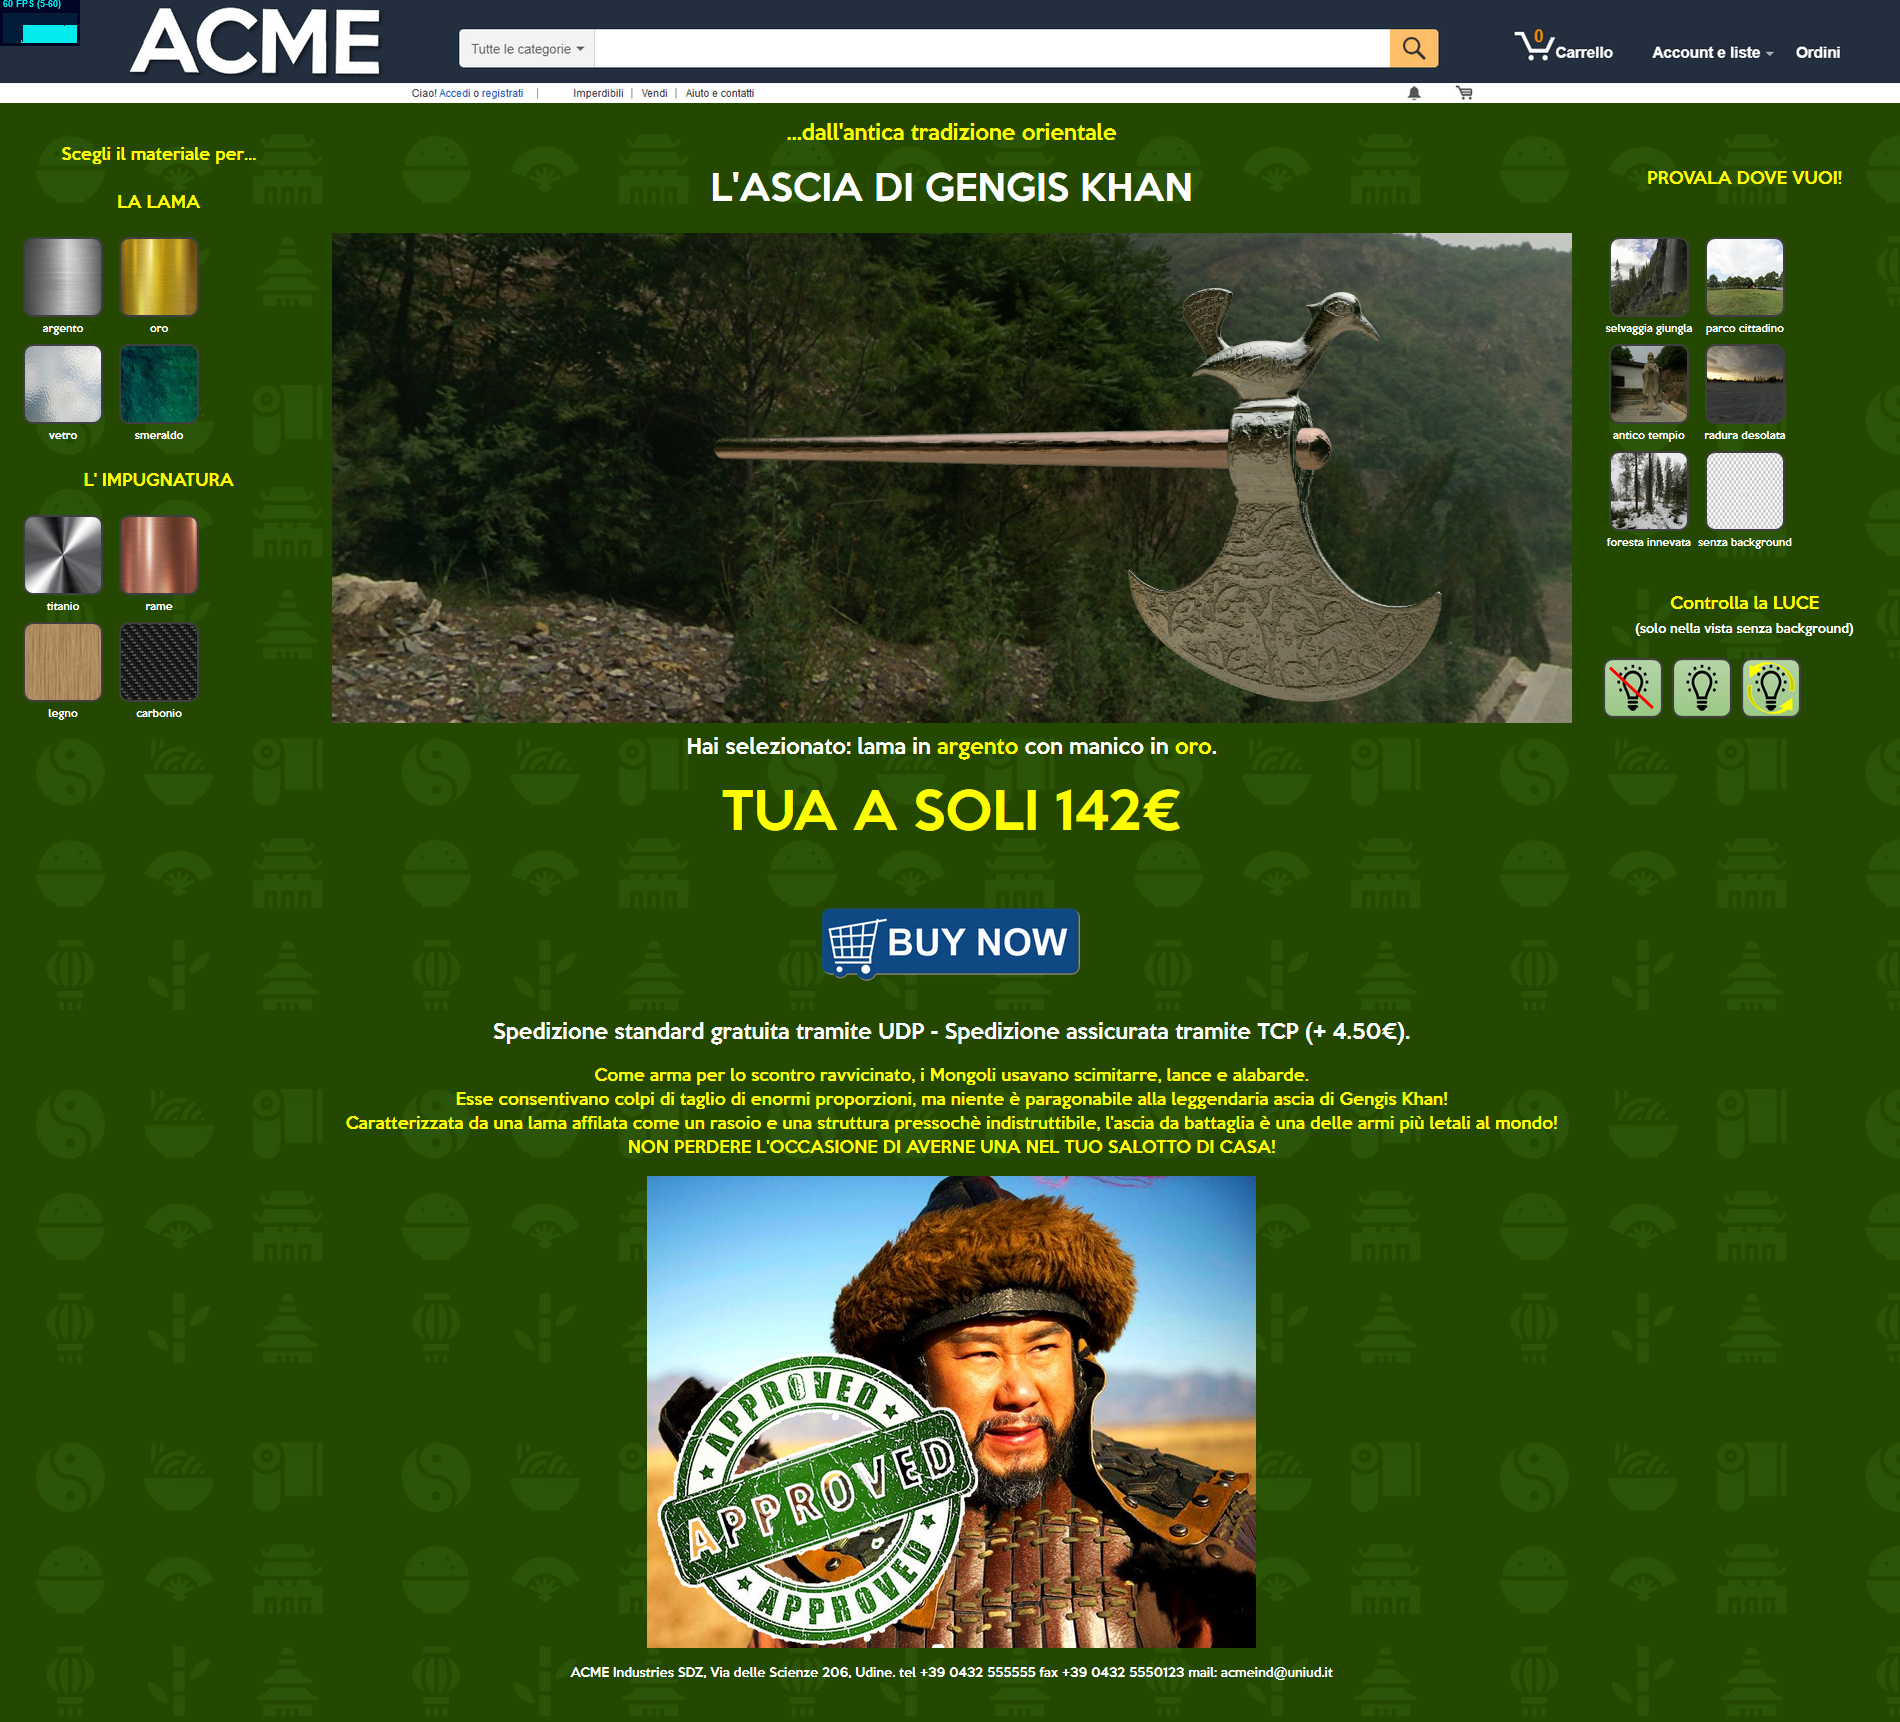
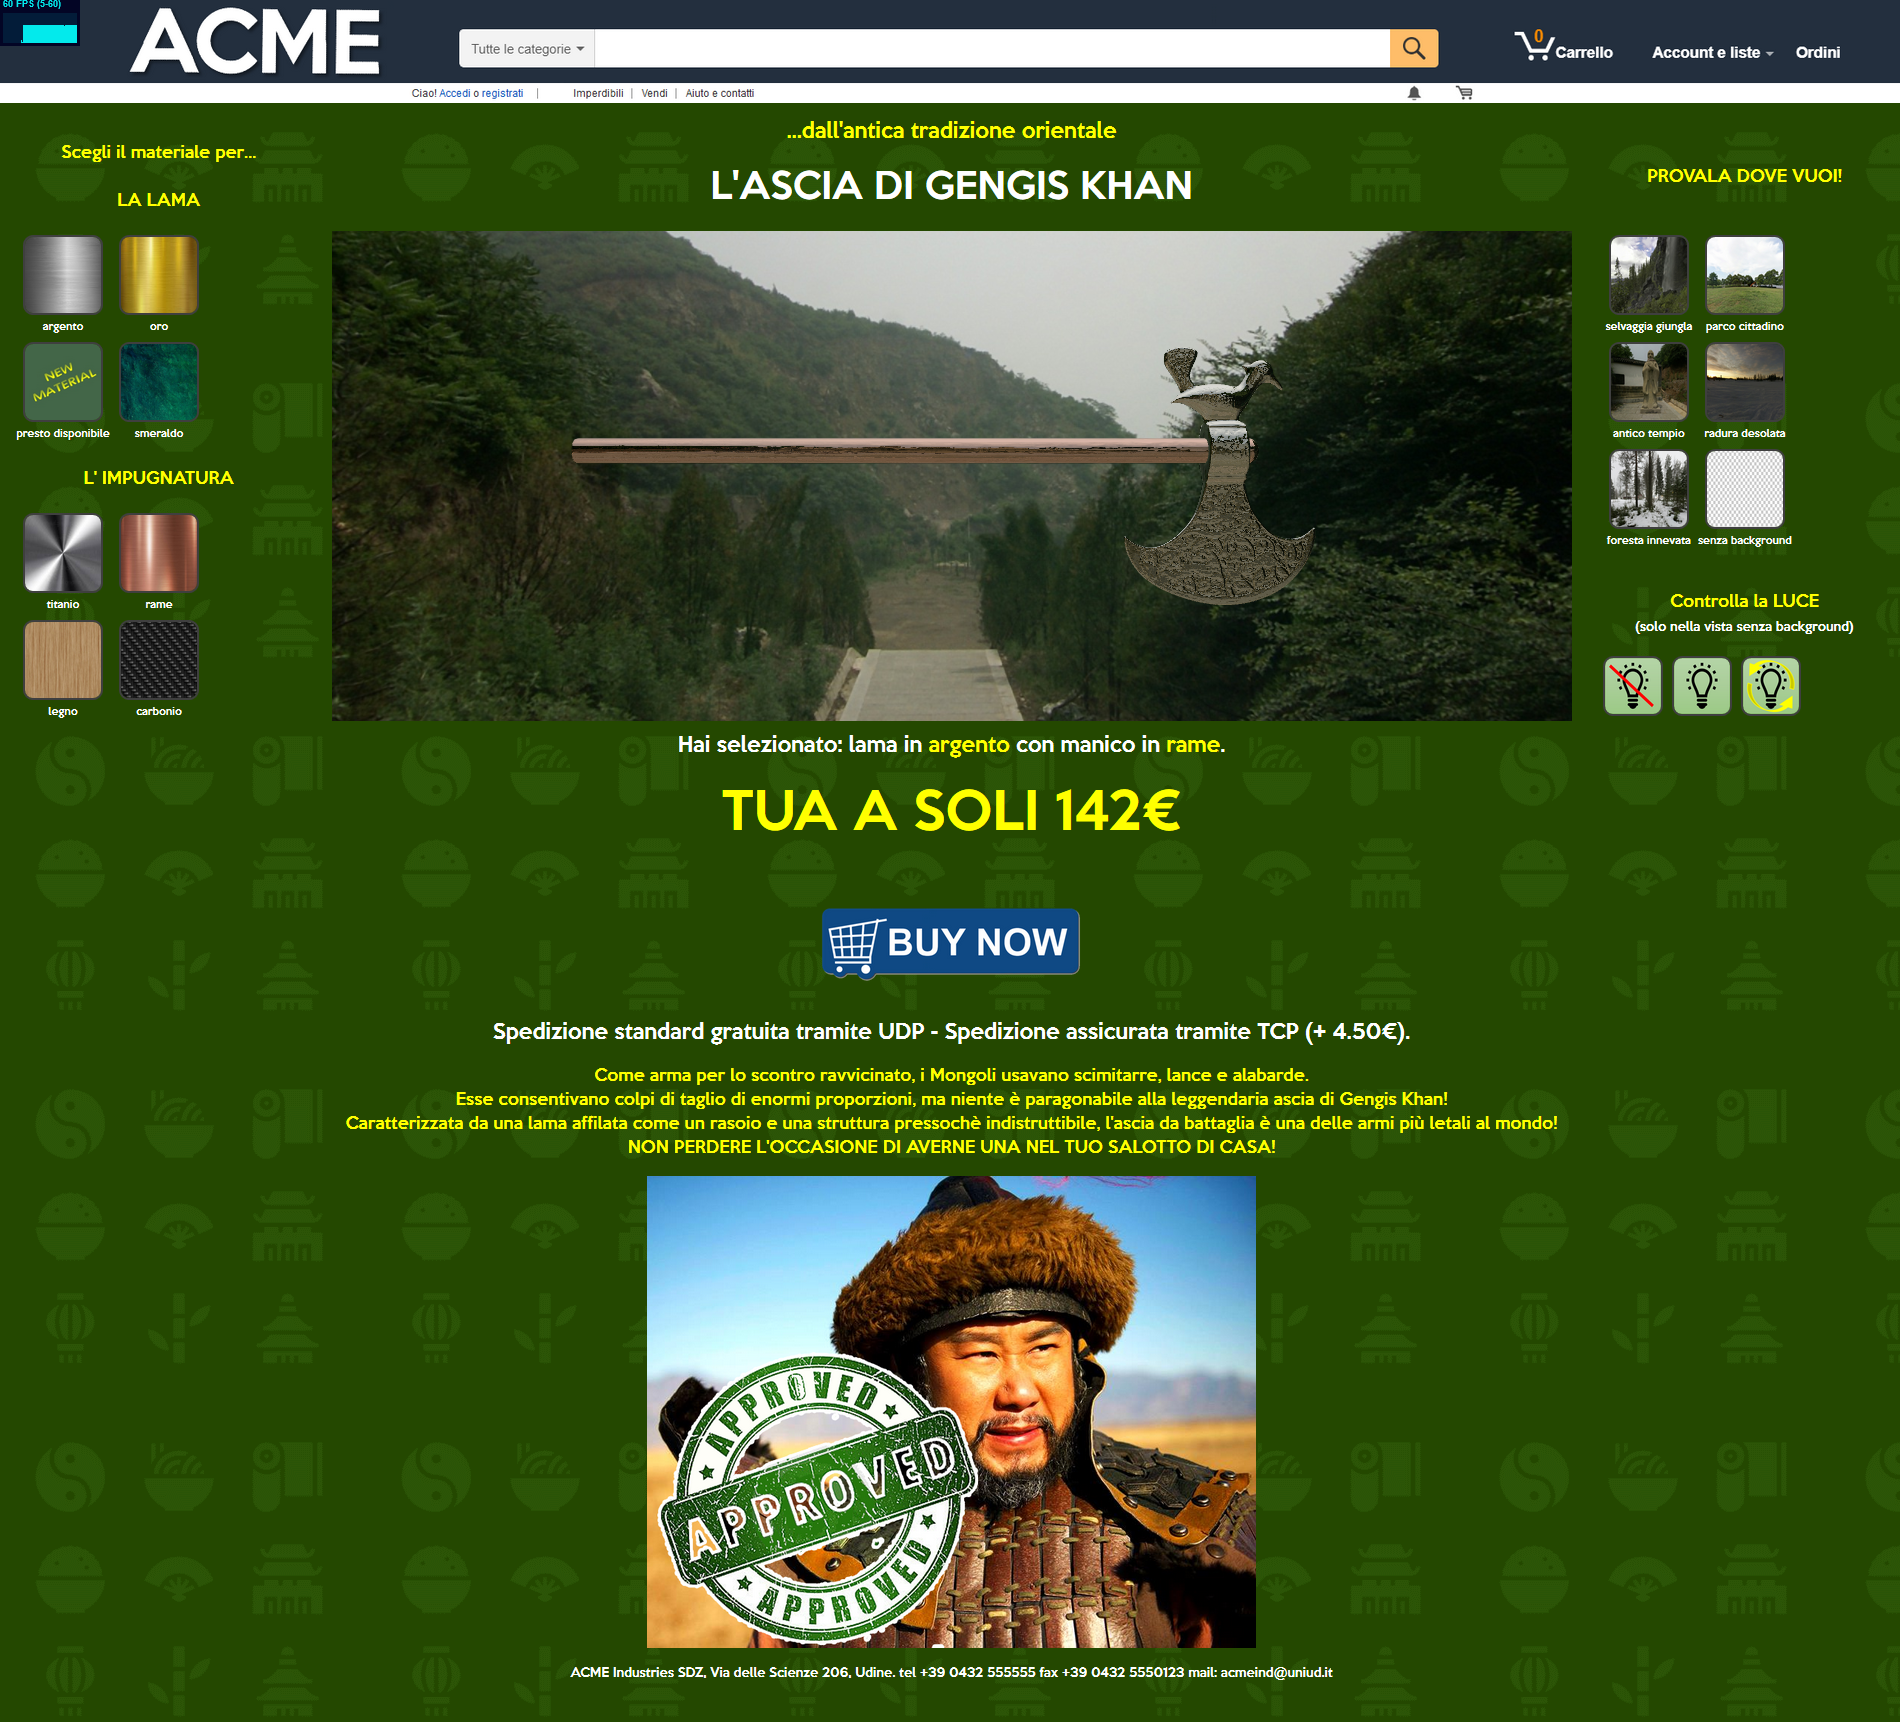
aggiornamenti journal e readme

diff --git a/README.md b/README.md
@@ -13,9 +13,9 @@ Team:
 Il progetto consiste in una applicazione web caratterizzata da un sito di e-commerce che permette l'acquisto di un'ascia da battaglia mongola (L'ascia di gengis khan). In particolare abbiamo sviluppato la possibilità di visualizzare il prodotto anche dopo aver modificato i suoi materiali, cosi da consentire al cliente una maggiore personalizzazione. Sarà quindi possibile variare il materiale dell'ascia, del manico e si potrà visualizzare l'oggetto nella sua interezza in vari ambienti, cosi da mostrare più precisamente possibile, come varia l'oggetto in situazioni differenti.
 
 ### Descrizione degli elementi
-- **Scelta del materiale lama:** E' costituita dalla possibilità di scegliere tra argento, oro e ??;
-- **Scelta del materiale del'asta:** E' costituita dalla possibilità di scegliere tra argento, oro e legno e ??
-- **Scelta della cubemap:** E' costituit dalla possibilità di scegliere tra 5 ambienti diversi e una versione priva di background;
+- **Scelta del materiale lama:** E' costituita dalla possibilità di scegliere tra argento, oro, smeraldo e materiale presto disponibile;
+- **Scelta del materiale del'asta:** E' costituita dalla possibilità di scegliere tra titanio, rame, legno e carbonio
+- **Scelta della cubemap:** E' costituita dalla possibilità di scegliere tra 5 ambienti diversi e una versione priva di background;
 - **Comandi della luce:** Mini pannello per la gestione della luce nell'ambiente senza background che permette di visualizzare la fonte di luce e manovrarla;
 - **Area di visualizzazione del modello:** Costituita da una scena attraverso il quale si può azionare la camera e visualizzare il modello con tutte le caratteristiche scelte.
 - **Descrizione generica:** Parte sottostante alla pagina che descrive l'oggetto e simula più relisticamente possibile, un sito di e-commerce
@@ -40,6 +40,8 @@ Esempio di cambio dei materiali in una diversa ambientazione:
 Esempio di movimento della luce 
 ![luce](screenshot/screen2.png)
 ![no luce](screenshot/screen3.png)
+Esempio di materiale presto disponibile:
+![materiale](screenshot/materialePrestoDis.png)
 
 ## Controllo Luci
 Nella visualizzazione senza l'ambiente circostante, quindi senza cubemap, abbiamo implementato la possibilità di vedere come si comportano i materiali degli oggetti in presenza di una luce puntiforme, al netto di tutte le luci ambientali.  

diff --git a/JOURNAL.md b/JOURNAL.md
@@ -24,13 +24,13 @@ Infine nella parte sottostante abbiamo deciso di inserire una descrizione dell'o
 ![Prima bozza](screenshot/bozza.png)
 - Abbiamo iniziato a implementare il sito, fino a decidere di riprogettare la pagina utilizzando un bootstrap per riuscire a lavorare in modo più efficiente in merito alla gestione delle larghezze della pagina e quindi renderla più responsive possibile;  
 ![Primo sito](screenshot/inizialeTot.png)
+- Abbiamo lavorato sui materiali e quindi sulla loro modificabilità e struttura;
+- Abbiamo deciso di cambiare modello, quindi abbiamo ricalibrato l'intero progetto per la nuova sistemazione;
+![modello2](screenshot/axe.png)
 - Abbiamo iniziato l'implementazione attraverso l'inserimento degli shaders e l'applicazione delle texture;
 ![Primo sito3](screenshot/material.png)
 - Abbiamo lavorato sulle cubemap e abbiamo studiato l'inserimento delle stesse nella scena, considerando anche l'opzione senza background;
 ![Primo sito3](screenshot/wcube.png)
-- Abbiamo lavorato sui materiali e quindi sulla loro modificabilità e struttura;
-- Abbiamo deciso di cambiare modello, quindi abbiamo ricalibrato l'intero progetto per la nuova sistemazione;
-![modello2](screenshot/axe.png)
 - Abbiamo rielaborato il sistema testando i doppi materiali;
 - Abbiamo implementato la luce all'interno della scena attraverso dei controlli per il suo movimento e accensione/spegnimento;  
 ![pulsantiera](screenshot/pulsantieraLuci.png)
@@ -41,6 +41,7 @@ Infine nella parte sottostante abbiamo deciso di inserire una descrizione dell'o
 - Abbiamo inserito altri tipi di materiali implementando le texture del legno;
 - Abbiamo testato il configuratore su dispositivi mobili e abbiamo visto che i FPS rimangono stabili tra i 45 e 60 FPS;  
 ![testMobile](screenshot/screen_test_mobile.jpg)
+- Abbiamo implementato il nuovo materiale provvisorio per simulare un reale caso di "presto disponibile sul sito" 
 - Sistemazione codice finale e dettagli implementativi per la pulizia e l'efficienza dell'intera scena.
 
 ## Scelte di implementazione
